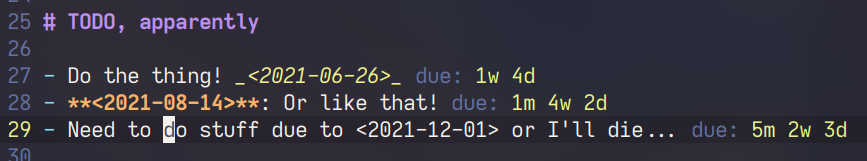
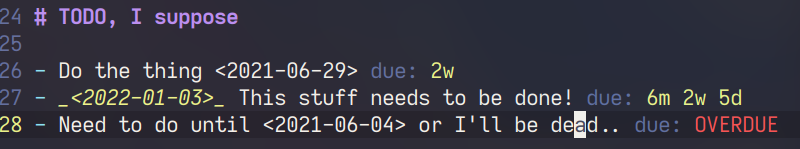
feat: overdue

diff --git a/README.md b/README.md
@@ -35,6 +35,8 @@ vim.g.dueVir_prescript = 'due: '      -- prescript to due data
 vim.g.dueVir_prescript_hi = 'Comment' -- highlight group of it
 vim.g.dueVir_due_hi = 'String'        -- highlight group of the data itself
 vim.g.dueVir_ft = '*.md'              -- filename to apply aucmds :)
+vim.g.dueVir_overdue = 'OVERDUE'      -- text for overdued data
+vim.g.dueVir_overdue_hi = 'Error'     -- highlight group of overdued
 ```
 
 ## TODO
